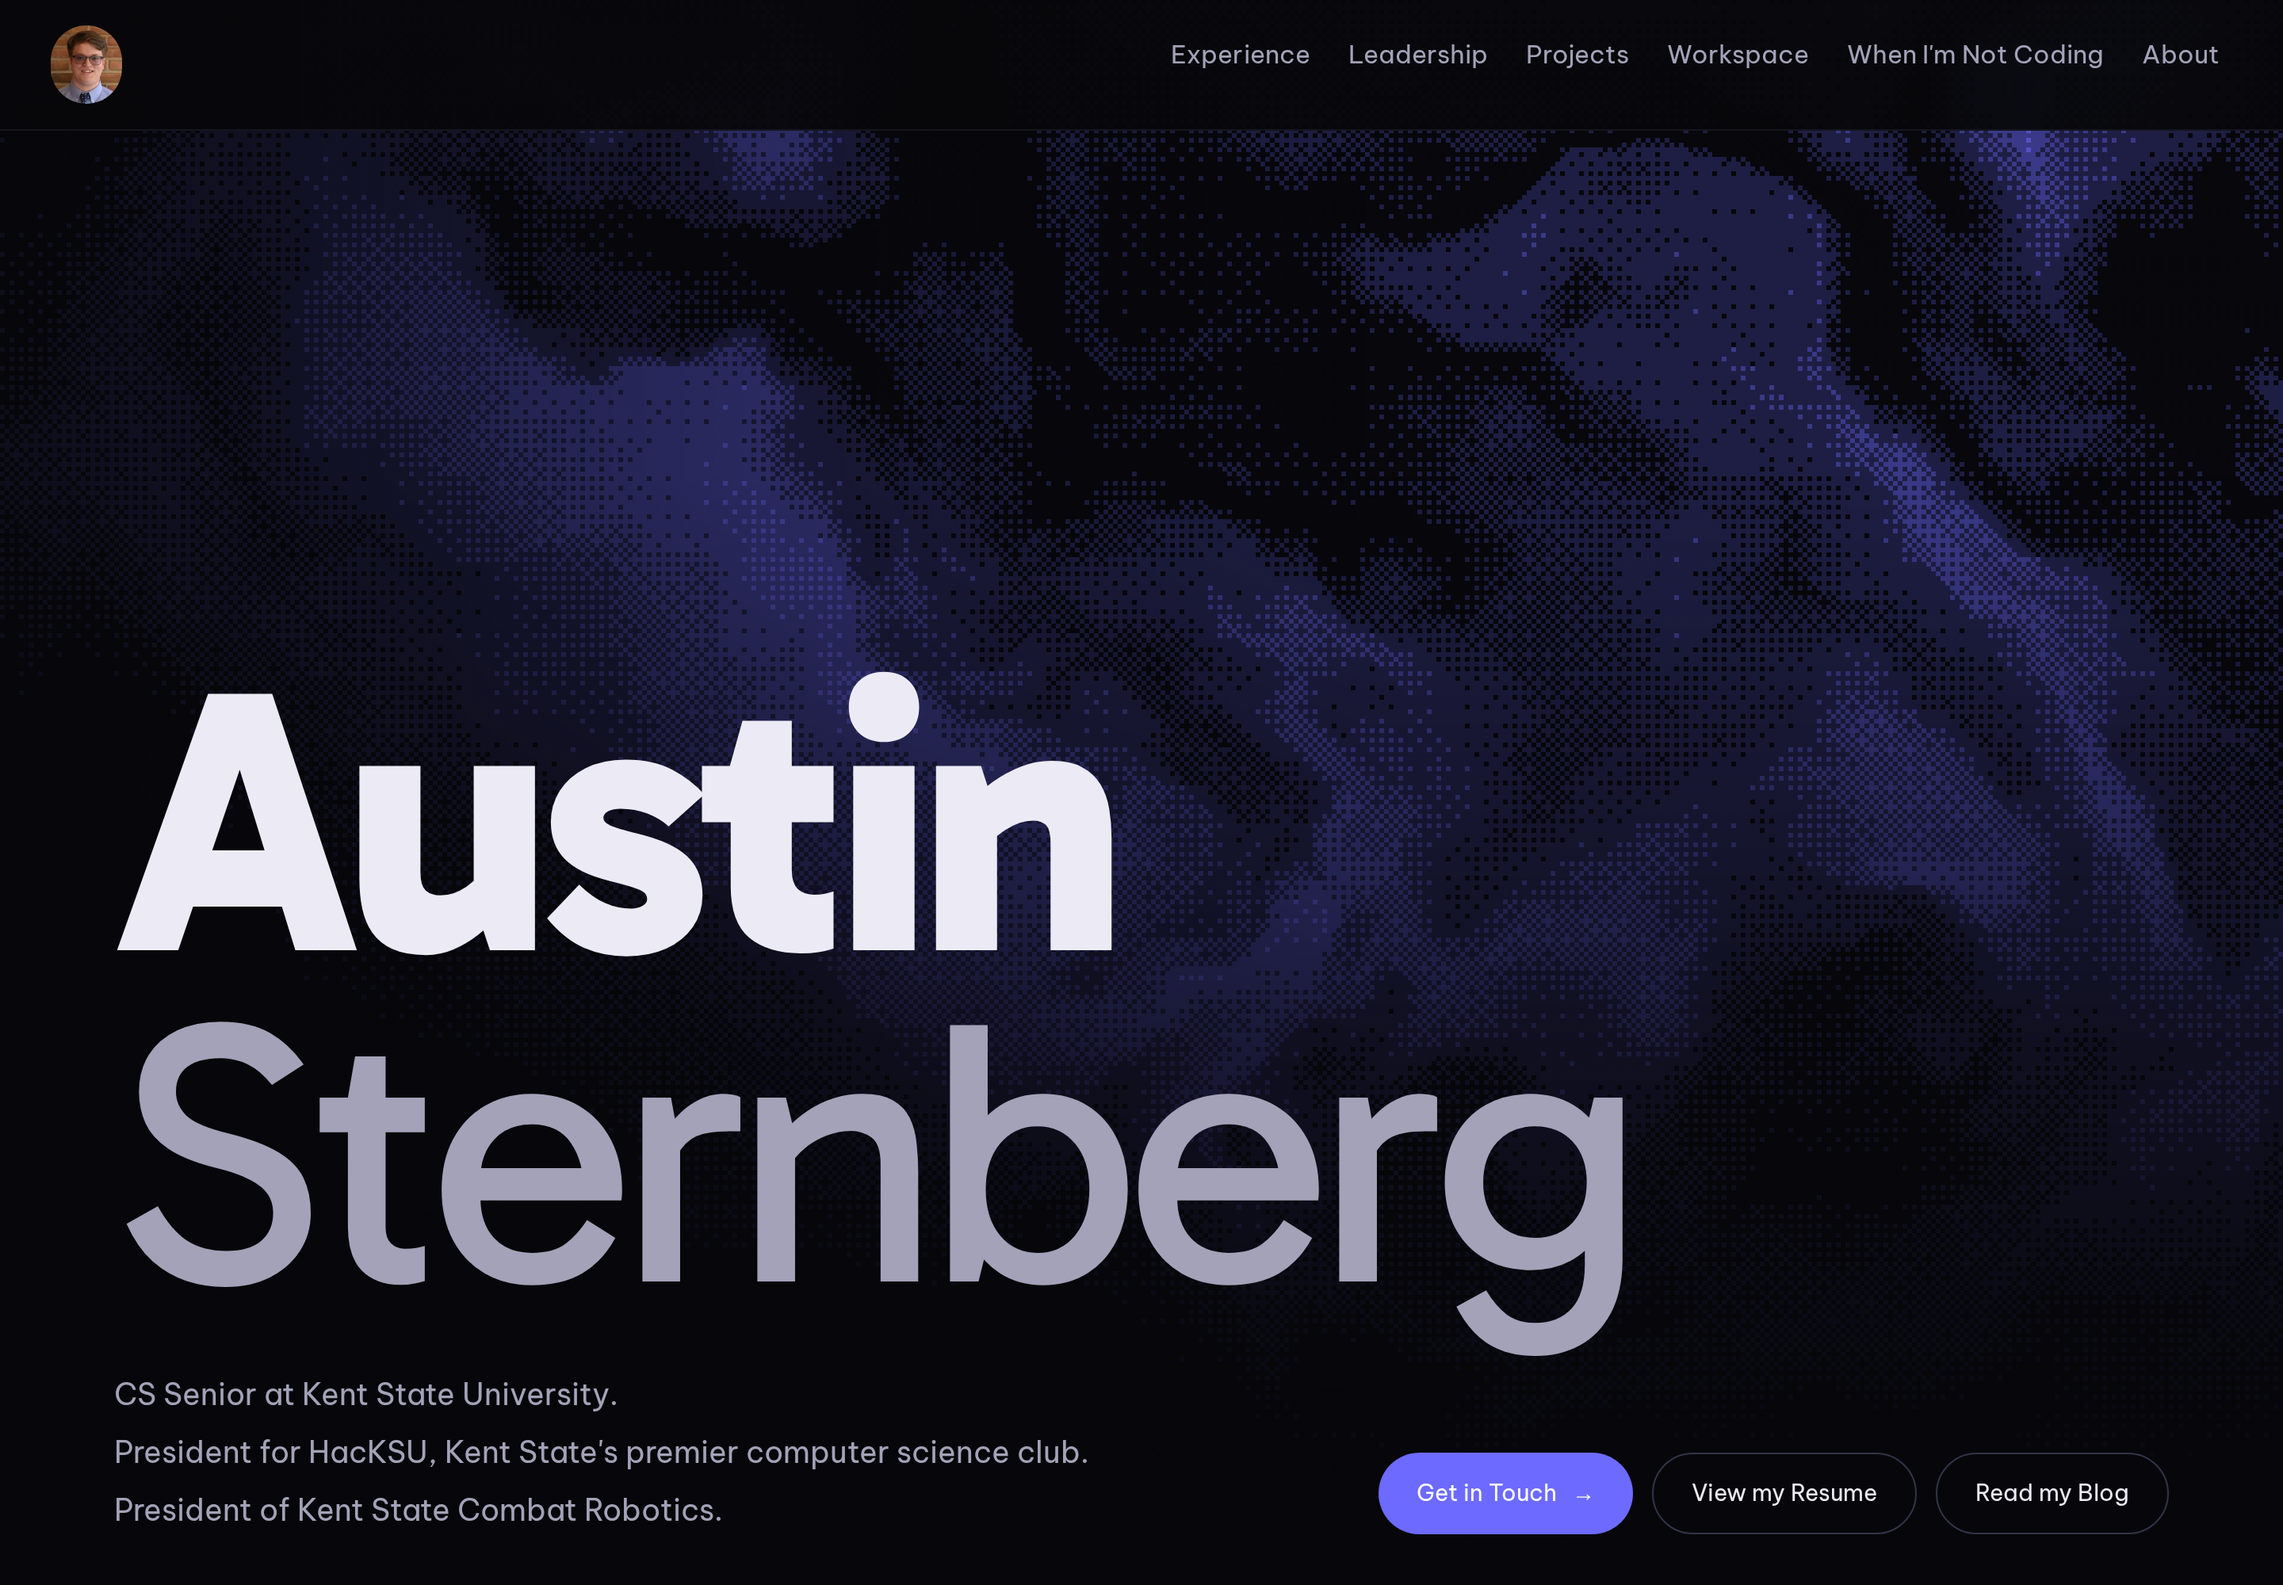
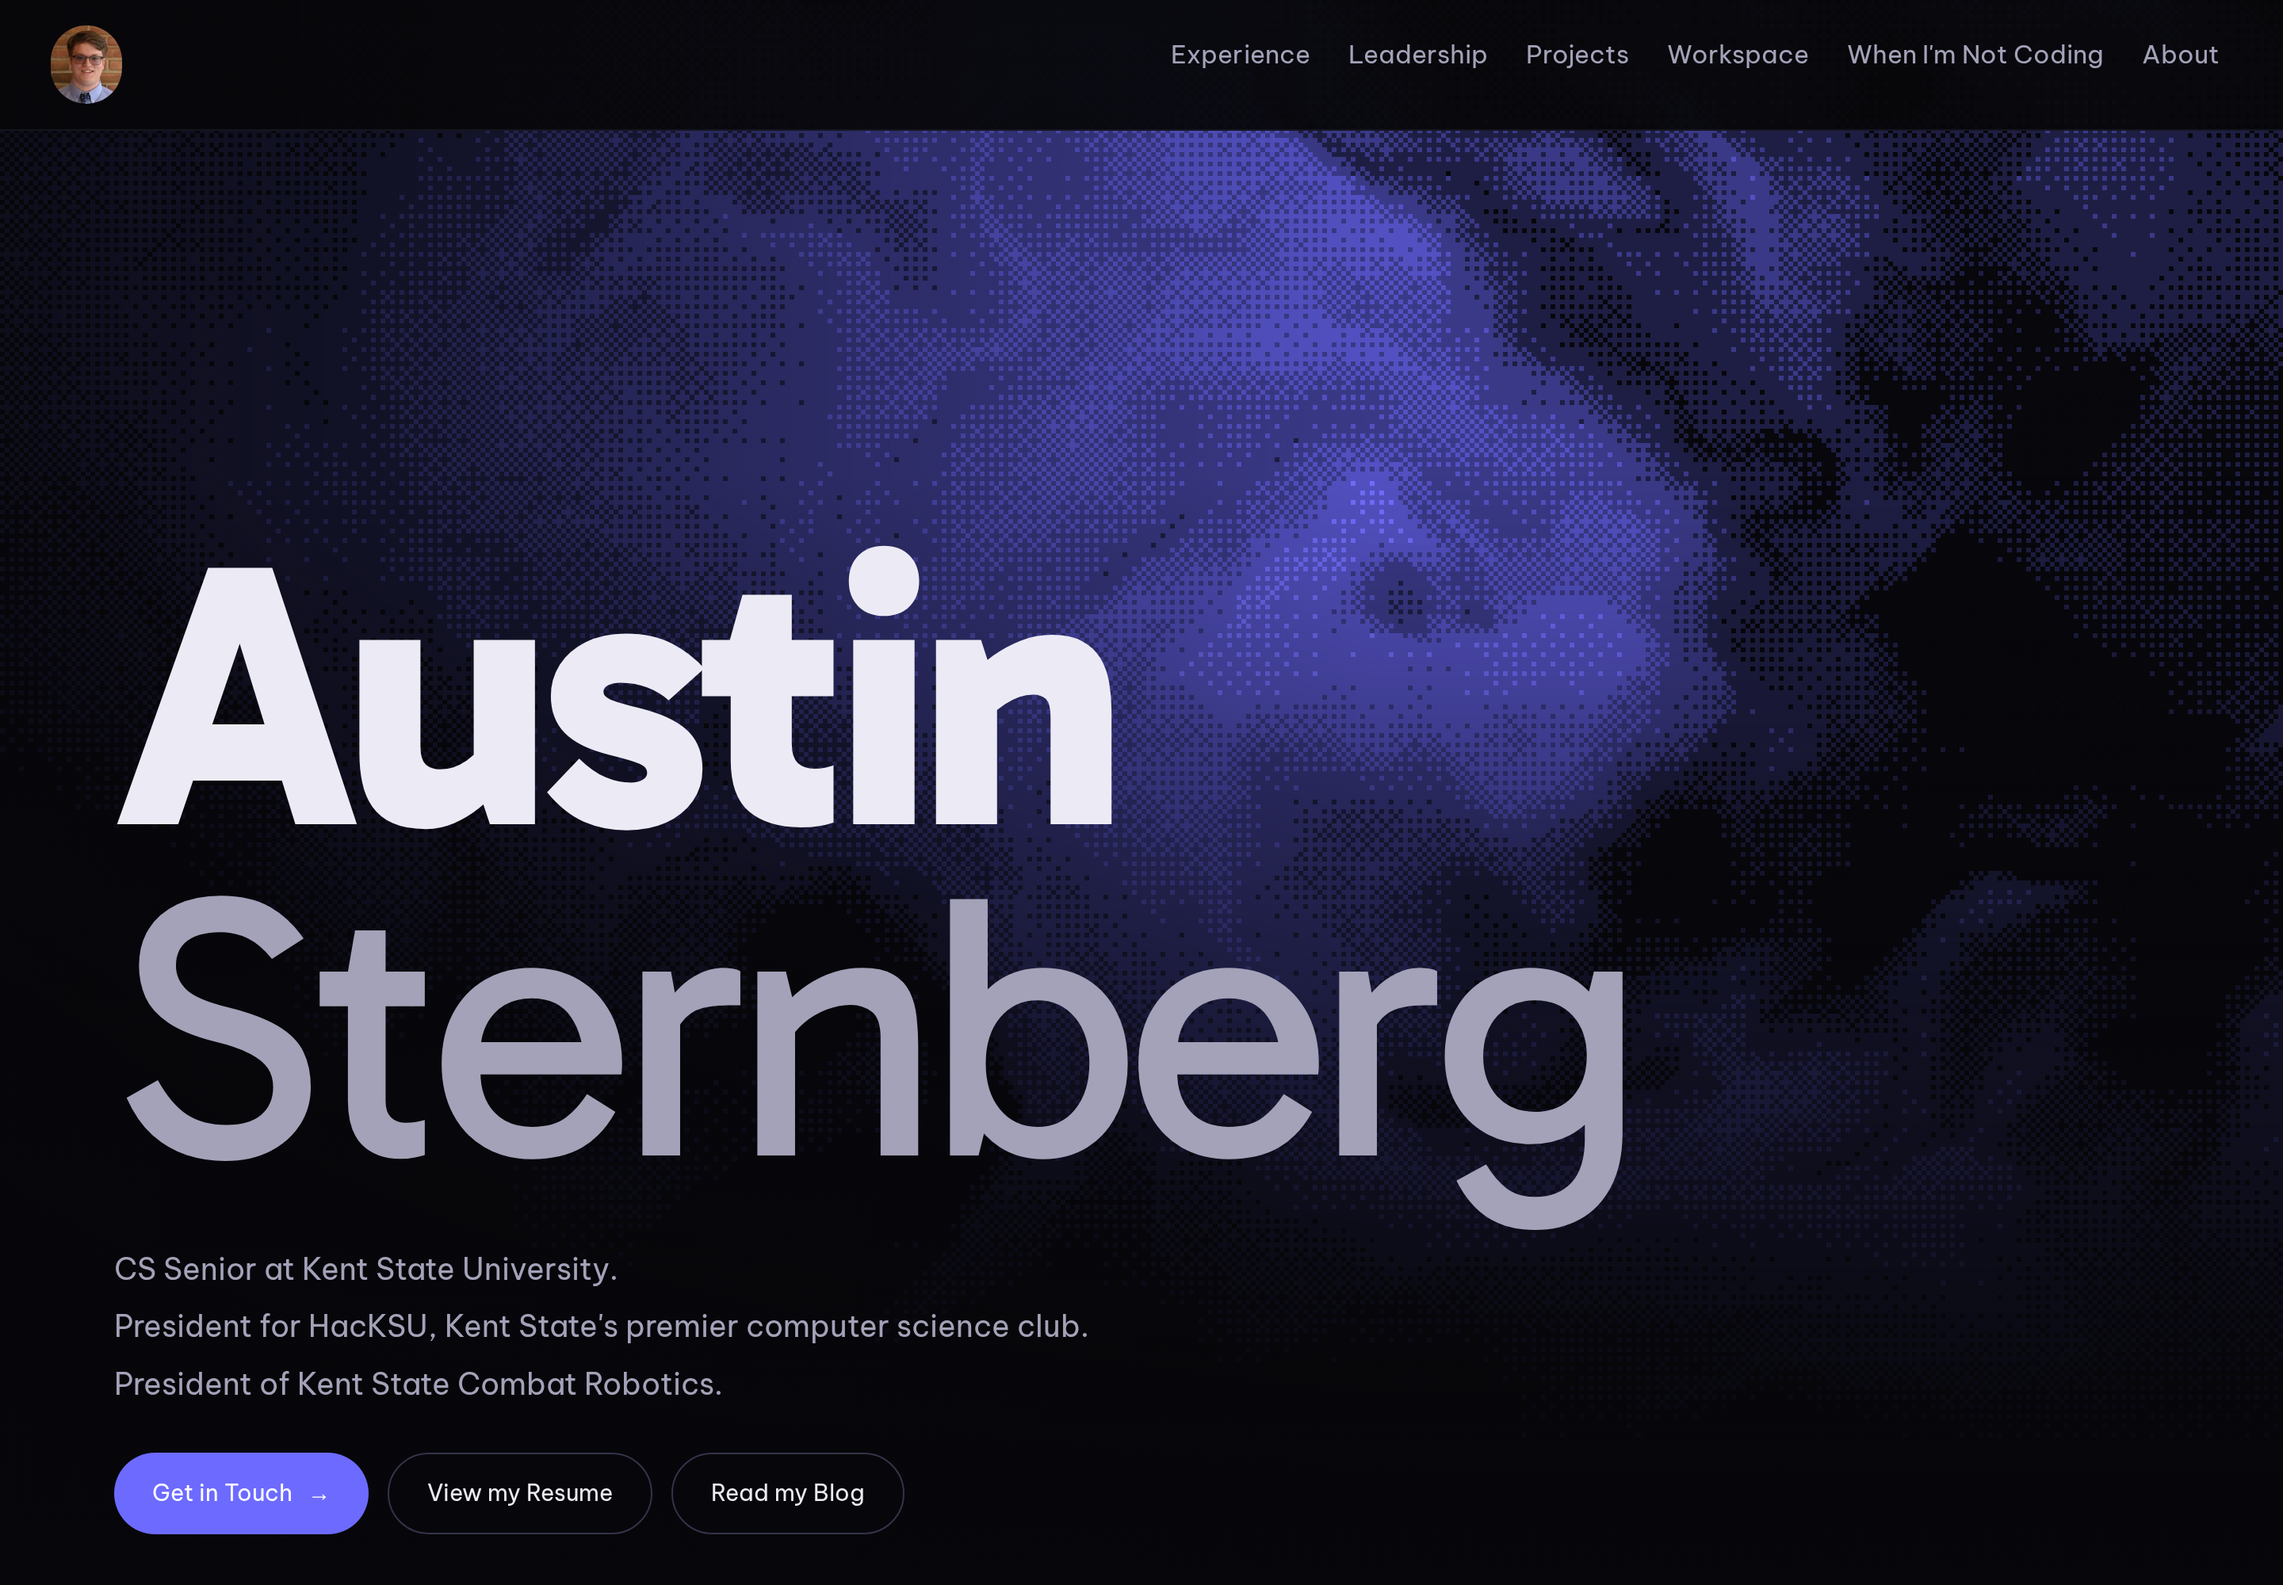
fix: give hero intro full width above actions

diff --git a/src/lib/components/Hero.svelte b/src/lib/components/Hero.svelte
@@ -183,12 +183,6 @@
     gap: 1.75rem;
     align-items: end;
   }
-  @media (min-width: 900px) {
-    .hero-bottom {
-      grid-template-columns: minmax(0, 1fr) auto;
-      gap: 3rem;
-    }
-  }
   .hero-summary {
     max-width: none;
     color: var(--color-dim);
